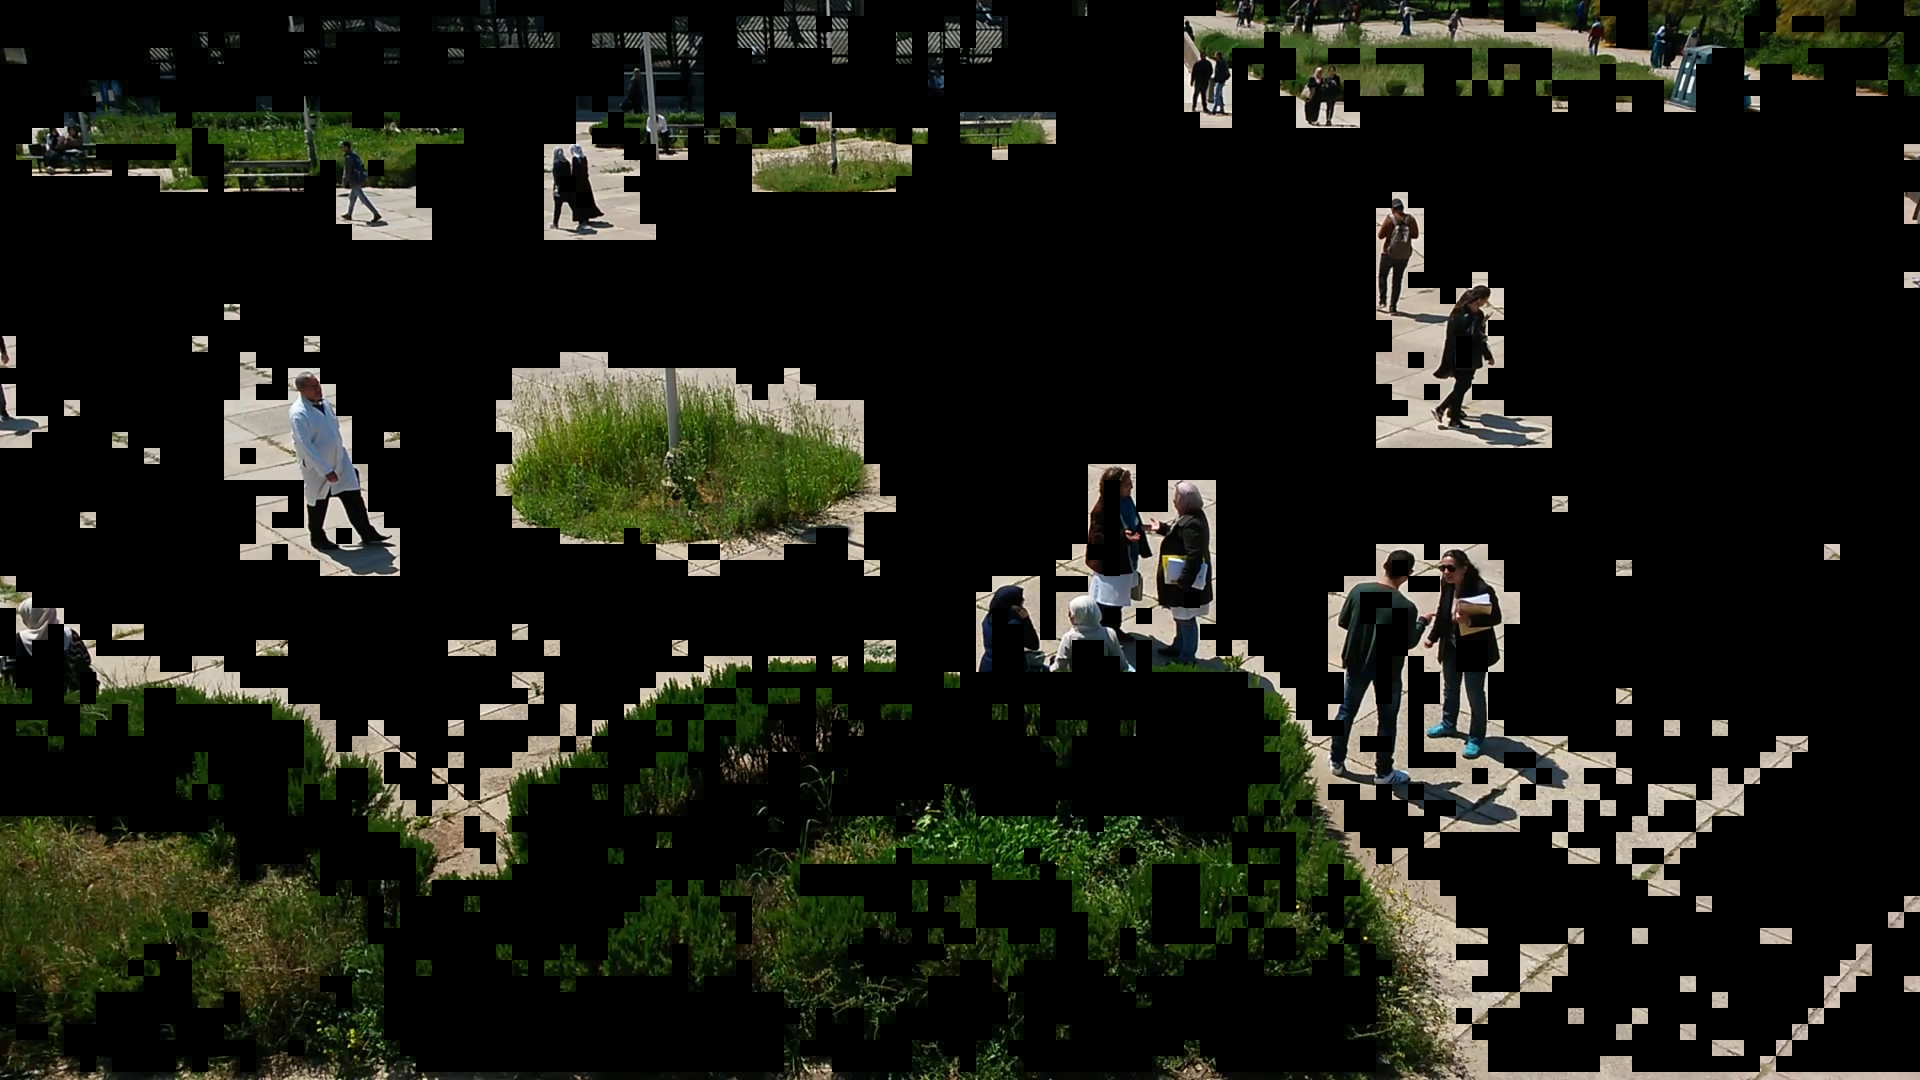
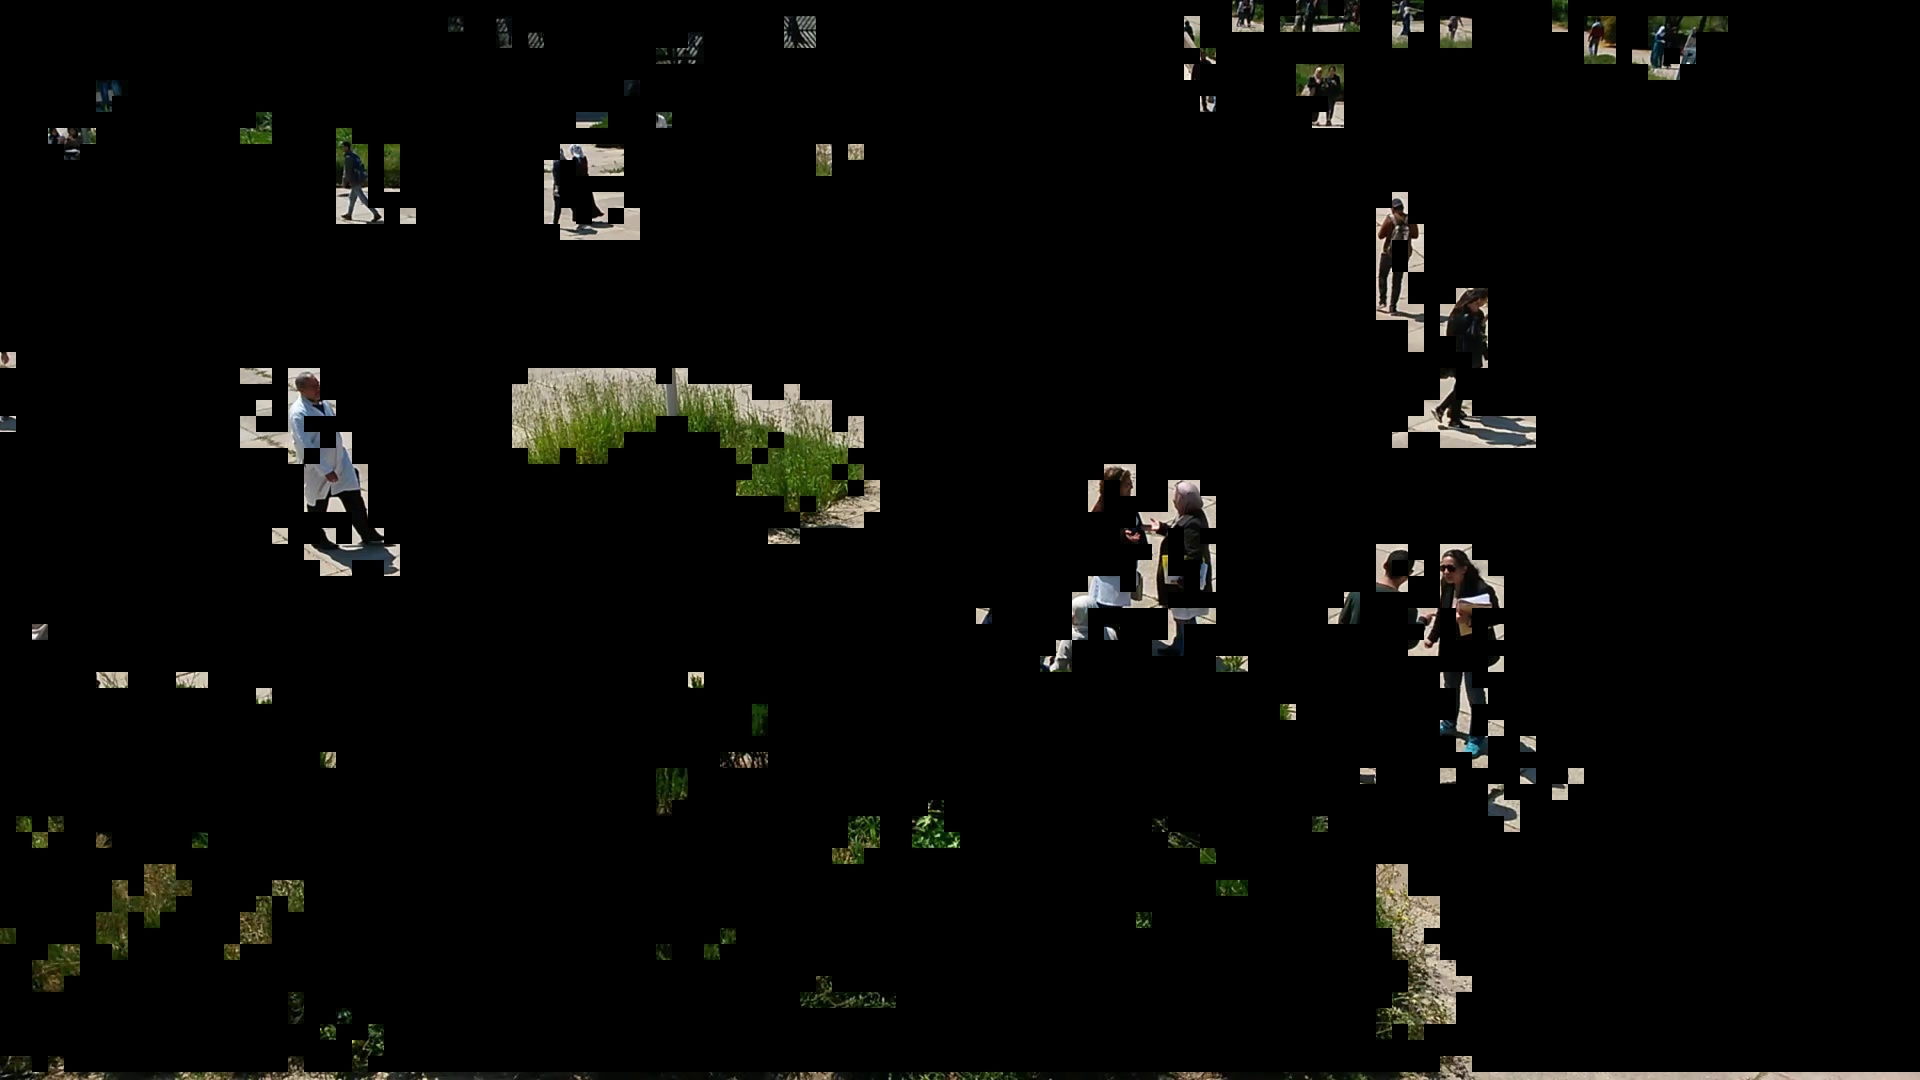
final version

diff --git a/Find.py b/Find.py
@@ -15,6 +15,8 @@ class Find:
         image1, image2 = Preprocessing.process_both(
             im1, im2, DELTA, padding=True)
         list_of_blocs = []
+        list_of_residu = []
+
         x1, y1 = image2.shape
 
         print("[Searching]...")
@@ -33,6 +35,9 @@ class Find:
 
                     if min_mse < threshold:
                         list_of_blocs.append((x, y, i, j))
+                    else:
+                        list_of_residu.append((x, y, i, j))
+
         end = time.time()
 
         print(f"[Result] in {end-start}s")
@@ -43,7 +48,7 @@ class Find:
 
         print(f"[Preparing] image residues ...")
         residue_image = Restore.show_residues(
-            im2, list_of_blocs, bs, mode="lin")
+            im2, im1, list_of_blocs, list_of_residu, bs, mode="lin")
         print(f"[Done]")
 
         print(f"[Preparing] image predicted ...")
@@ -59,6 +64,7 @@ class Find:
         image1, image2 = Preprocessing.process_both(
             im1, im2, DELTA, padding=True)
         list_of_blocs = []
+        list_of_residu = []
         x1, y1 = image2.shape
 
         print("[Searching]...")
@@ -71,18 +77,21 @@ class Find:
                         target_bloc, image1, i, j, bs, DELTA)
                     if min_mse < threshold:
                         list_of_blocs.append((x-DELTA, y-DELTA, i, j))
+                    else:
+                        list_of_residu.append((x-DELTA, y-DELTA, i, j))
 
         end = time.time()
 
         print(f"[Result] in {end-start}s")
 
         print(f"[Preparing] image similarities ...")
-        Restore.show_similarities(im1.copy(), list_of_blocs, bs, mode="log")
+        Restore.show_similarities(
+            im1.copy(), im2.copy(), list_of_blocs, bs, mode="log")
         print(f"[Done]")
 
         print(f"[Preparing] image residues ...")
         residue_image = Restore.show_residues(
-            im2, list_of_blocs, bs, mode="log")
+            im2, im1, list_of_blocs, list_of_residu, bs, mode="log")
         print(f"[Done]")
 
         print(f"[Preparing] image predicted ...")

diff --git a/Restore.py b/Restore.py
@@ -1,4 +1,5 @@
 import cv2
+import random
 import numpy as np
 from tqdm import tqdm
 
@@ -34,22 +35,33 @@ class Restore:
         cv2.waitKey(TIME)
 
     @staticmethod
-    def show_similarities(image, list_of_blocs, bs, mode):
+    def show_similarities(image, image2, list_of_blocs, bs, mode):
         filename = "./out/similarities_image"
-        for x, y, _, _ in tqdm(list_of_blocs):
-            cv2.rectangle(image, (y, x, bs, bs), (0, 0, 255), 2)
+        for x, y, i, j in tqdm(list_of_blocs):
+            # random_color = (random.randint(0, 255), random.randint(
+            #     0, 255), random.randint(0, 255))
+
+            random_color = (0, 0, 255)
+            cv2.rectangle(image, (y, x, bs, bs), random_color, 2)
+            # cv2.rectangle(image2, (j, i, bs, bs), random_color, 2)
 
         cv2.imwrite(f"{filename}.{mode}.jpg", image)
+        # cv2.imwrite(f"{filename}_2.{mode}.jpg", image2)
         cv2.imshow("similarities_between_images", image)
         cv2.waitKey(TIME)
         return image
 
     @staticmethod
-    def show_residues(image2, list_of_blocs, bs, mode):
+    def show_residues(image2, image1, list_of_blocs, list_of_residu, bs, mode):
         filename = "./out/residues_image"
         residue_image = np.copy(image2)
+
         for _, _, x, y in tqdm(list_of_blocs):
             residue_image[x:x+bs, y:y+bs] = 0
+
+        # for _, _, x, y in tqdm(list_of_residu):
+        #     residue_image[x:x+bs, y:y+bs] = abs(image1[x:x +
+        #                                                bs, y:y+bs]-image2[x:x+bs, y:y+bs])
 
         cv2.imwrite(f"{filename}.{mode}.jpg", residue_image)
         cv2.imshow("residues_between_images", residue_image)
